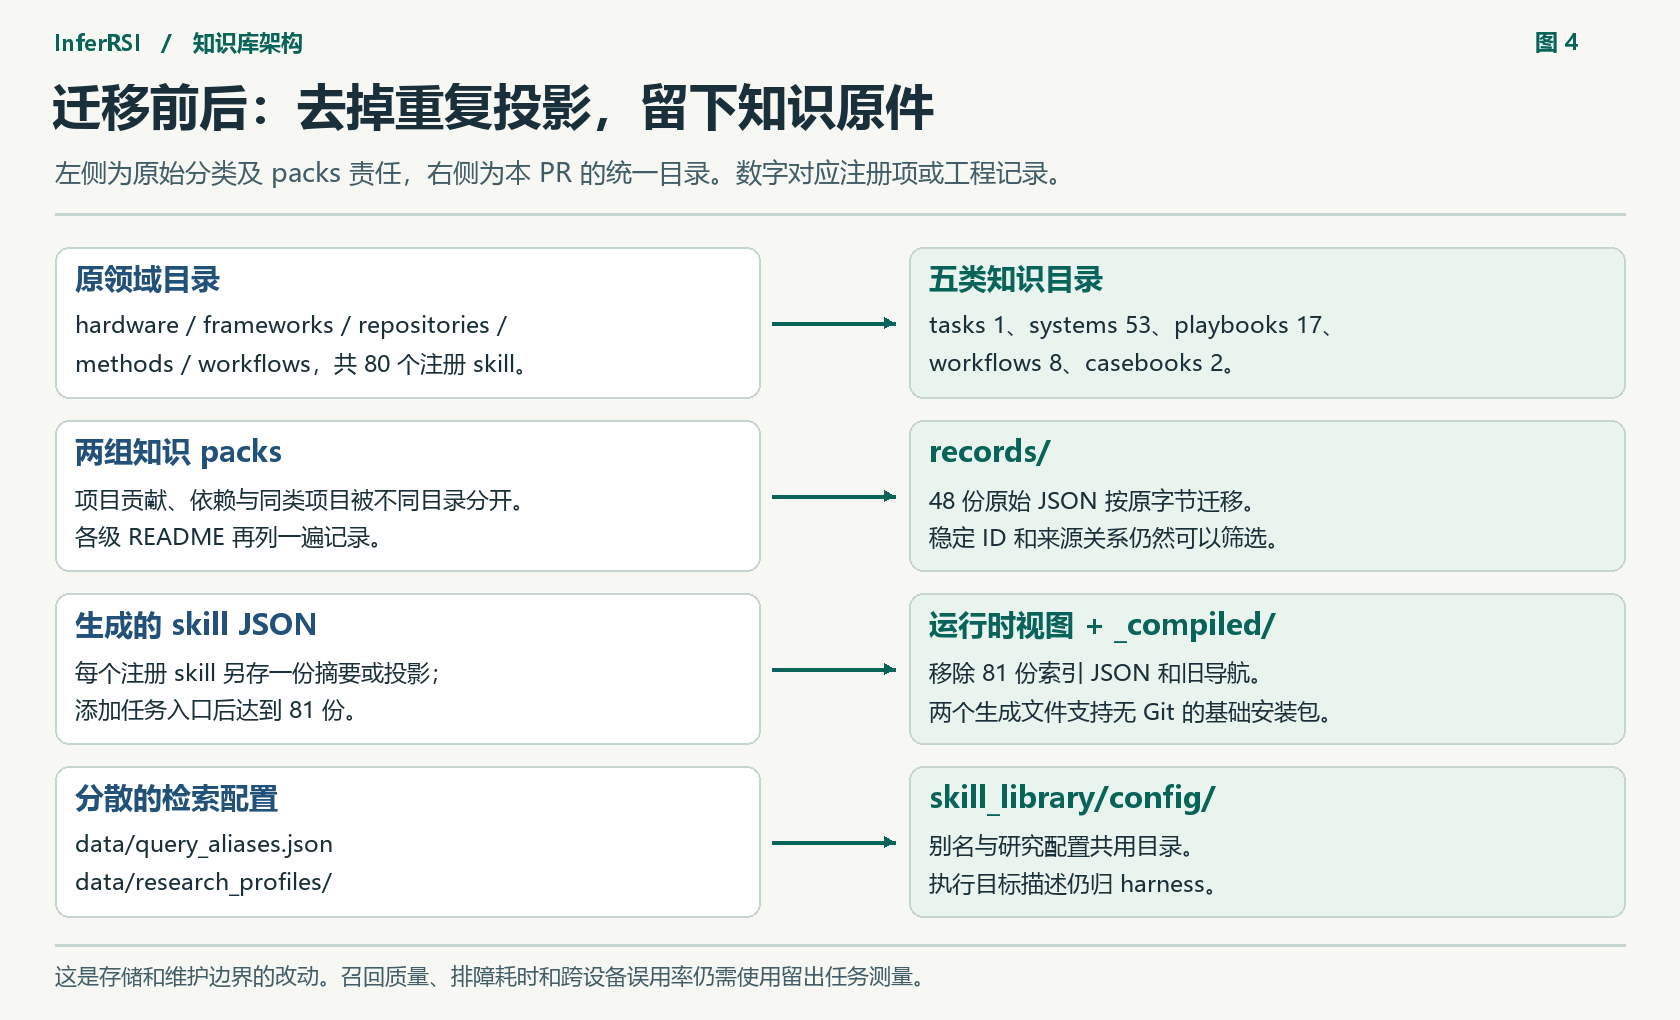
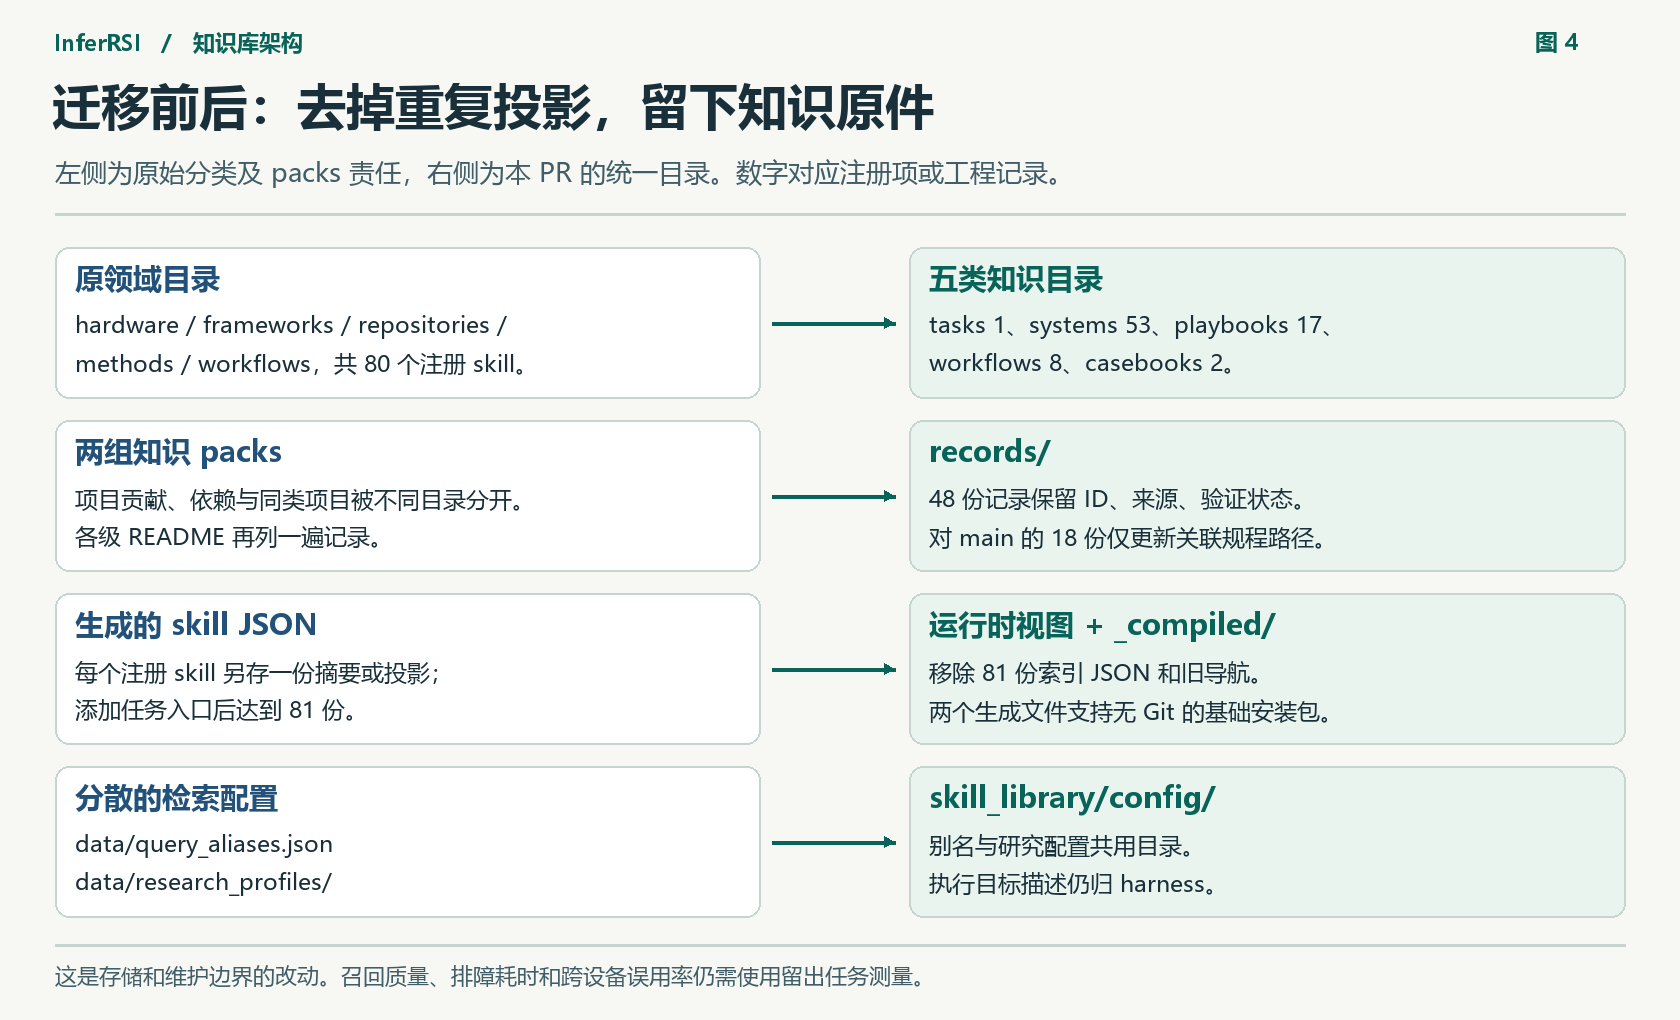
Refresh combined source pins, verify protected projections and document shared ranking
Agent-assisted-by: Codex / gpt-6.2-astra [effort=xhigh] (author)
Agent-reviewed-by: Claude Code / claude-fable-5-2 [effort=xhigh] (design review)

Changed region(s): [[0.5571, 0.4559, 0.7738, 0.5471]]

diff --git a/tests/test_source_snapshot.py b/tests/test_source_snapshot.py
@@ -1,14 +1,15 @@
 import copy
 import hashlib
+import inspect
 import json
 import subprocess
+from fnmatch import fnmatchcase
 from pathlib import Path
 
 import pytest
 
 from inferrsi.knowledge import _source_snapshot as snapshot
-from inferrsi.knowledge.catalog import INPUTS, skill_views
-from inferrsi.knowledge.catalog import search_knowledge
+from inferrsi.knowledge.catalog import INPUTS, recommendations, search_knowledge, skill_views
 from tools import build_skill_index as index_builder
 from tools.build_skill_index import DESTINATION
 
@@ -19,6 +20,13 @@ REVISION = "a" * 40
 # root and the pinned prefix are the same. After the K02 re-pin the repository
 # agrees on src/inferrsi/knowledge/data/skill_library as well.
 LIBRARY = index_builder.PINNED_LIBRARY
+
+
+def test_public_projection_implementation_is_a_protected_knowledge_path():
+    policy = json.loads((PROJECT / ".github/knowledge-model-policy.json").read_bytes())
+    for builder in (skill_views, recommendations):
+        path = Path(inspect.getfile(builder)).resolve().relative_to(PROJECT).as_posix()
+        assert any(fnmatchcase(path, pattern) for pattern in policy["protected_paths"]), path
 
 
 def test_compiled_inputs_expand_to_public_records():

diff --git a/tests/test_knowledge_find.py b/tests/test_knowledge_find.py
@@ -115,7 +115,9 @@ def test_catalog_ranks_find_documents_over_the_filtered_package_scope(corpus, qu
     by_find_ref = {record.get("checkout_ref", f"package:{record['id']}"): record
                    for record in inventory}
     eligible = [document for document in corpus.documents if document.qualified in by_find_ref]
-    assert len(eligible) == len(inventory)
+    # Navigation is available in an unranked listing and by exact ID.
+    unranked = set(by_find_ref) - {doc.qualified for doc in eligible}
+    assert unranked == ({"checkout:inference-task-router"} & set(by_find_ref))
     _, _, scored = rank(query, Corpus(eligible))
     assert scored
 

diff --git a/tools/check_skill_layout_migration.py b/tools/check_skill_layout_migration.py
@@ -61,7 +61,8 @@ def verify_snapshot(checkout, rows, side):
 
 def main():
     parser = argparse.ArgumentParser(description=__doc__)
-    parser.add_argument("--before", type=Path, required=True, help="pre-layout checkout corresponding to the migration manifest")
+    parser.add_argument("--before", type=Path, required=True,
+                        help="pre-layout checkout corresponding to the migration manifest")
     parser.add_argument("--after", type=Path, default=PROJECT, help="cutover source checkout")
     args = parser.parse_args()
     with (PROJECT / "docs/skill-layout-migration.csv").open(encoding="utf-8", newline="") as stream:

diff --git a/tests/test_campaign_task_selection.py b/tests/test_campaign_task_selection.py
@@ -195,4 +195,5 @@ def test_task_router_is_explicitly_readable_but_never_ranked_into_campaign(tmp_p
     assert state == "verified"
     assert [item["ref"] for item in exact["items"]] == [ref]
     assert [item["ref"] for item in exact["contexts"]] == [ref]
-    assert reader.read(ref, revision=exact["items"][0]["revision"]).metadata["id"] == ref.split(":")[1]
+    pinned = reader.read(ref, revision=exact["items"][0]["revision"])
+    assert pinned.metadata["id"] == ref.split(":")[1]

diff --git a/docs/knowledge-layout.md b/docs/knowledge-layout.md
@@ -44,13 +44,14 @@ flowchart LR
 
 ```mermaid
 flowchart TB
-    Q["Input"] -->|Known task| T["Open one route card → seed IDs + acceptance criteria"]
-    Q -->|Symptom or question| F["find → aliases + weighted lexical retrieval"]
-    Q -->|Stable ID| I["read / resource → open owner at revision"]
-    Q -->|Repo / backend / scenario / tier| C["knowledge search / show → schema-1 catalog"]
-    F --> A["80 skill owners + 48 findings + 7 cases<br/>task entry excluded before IDF"]
-    C --> B["48 authored records + 81 skill views built on request"]
-    T & A & I & B --> V["Check source revision, model, device, OS and workload"]
+    Q["Input"] -->|Known task| T["Open one route card → seed IDs and acceptance criteria"]
+    Q -->|Known ID| I["read / resource / exact capture → open owner at revision"]
+    Q -->|Symptoms or managed campaign cue| F["Find lexical ranker · collect / capture share the selector"]
+    Q -->|Filtered catalog| C["knowledge search → scope by repo, backend, scenario, tier"]
+    C -->|With query| F
+    C -->|No query| B["List by stable ID · 48 records + 81 views, including the router"]
+    F --> A["Rank eligible owners before applying limits<br/>default corpus: 80 skills + 48 records + 7 cases; router excluded before IDF"]
+    T & I & A & B --> V["Check source revision, model, device, OS and workload"]
     V --> X["Applicable → cite source / case and verification status"]
     V --> G["Partial match or gap → record unknown + smallest discriminating test"]
 ```
@@ -74,7 +75,7 @@ flowchart LR
         P["config/ · aliases + profiles"]
     end
     A -->|move 80 owners and add task entry| N
-    B -->|same bytes and IDs| R
+    B -->|retain IDs; migrate linked paths| R
     C -->|remove mirrored record files| V
     D --> P
 ```
@@ -97,7 +98,7 @@ src/inferrsi/knowledge/data/
     └── _compiled/                         inputs.json, _provenance.json
 ```
 
-The README documents the library. A procedure, including its resources, belongs in one registered directory. An engineering record carries its own sources, applicability and verification status. Its filename must match its stable ID. The registry locates each skill. Builds compile YAML headers and pinned Git fingerprints required by the base wheel. The catalog reads canonical sidecars and emits the public schema-1 record on demand. Publishing the same skill under multiple engine or accelerator trees would require synchronized edits. Represent these dimensions on the task card and in owner metadata. For a new environment with no applicable local evidence, retain the unknown and the first check that could resolve it. [Record authoring guide](../src/inferrsi/knowledge/data/skill_library/records/README.md)
+The README documents the library. A procedure, including its resources, belongs in one registered directory. An engineering record carries its own sources, applicability and verification status. Its filename must match its stable ID. The registry locates each skill. The existing protected `knowledge/catalog.py` owns the public view fields, including source links, recommendations and verification status. Builds compile YAML headers and pinned Git fingerprints required by the base wheel. The catalog reads canonical sidecars and emits the public schema-1 record on demand. Publishing the same skill under multiple engine or accelerator trees would require synchronized edits. Represent these dimensions on the task card and in owner metadata. For a new environment with no applicable local evidence, retain the unknown and the first check that could resolve it. [Record authoring guide](../src/inferrsi/knowledge/data/skill_library/records/README.md)
 
 ## Seven deliverables
 
@@ -122,7 +123,7 @@ inferrsi knowledge search --tier peer --repo-type qwen3_tts_engine --backend asc
 inferrsi knowledge show flashinfer.cuda.llm.paged_decode_dispatch
 ```
 
-Known task cards seed 20 distinct skill IDs across seven routes. Known IDs can skip routing. Free-text discovery ranks the owner once and returns a path, evidence state and explanation. Typed catalog search filters first and returns the public record. The caller checks applicability before applying a result. A finding or failed attempt can be proposed as a record with a source, a scoped conclusion and a retry condition. The program does not autonomously promote session notes.
+Known task cards seed 20 distinct skill IDs across seven routes. Known IDs can skip routing. Free-text discovery ranks the owner once and returns a path, evidence state and explanation. A catalog query applies scope filters and reuses Find to rank the eligible owners; the no-query listing returns complete records in ID order. Ranked Collect and campaign capture use the same selector. Explicit IDs can still capture a task card’s owner. The caller checks applicability before applying a result. A finding or failed attempt can be proposed as a record with a source, a scoped conclusion and a retry condition. The program does not autonomously promote session notes.
 
 ## Design choices and benefits
 
@@ -130,8 +131,10 @@ Agent V describes Git-backed shared memory with human guidance, hard-to-rediscov
 
 MindIE Agent separates agent capabilities, knowledge and execution plugins. KDA specializes in kernel development. Cannbot Skills packages Ascend procedures for reuse. InferRSI needs cross-engine, cross-model and cross-platform retrieval as well as evidence qualification. It combines a task front door, technical owners, stable IDs and scoped evidence. A claim that it retrieves better than any of these projects requires a common task benchmark. [MindIE Agent](https://github.com/mindie-agent/mindie-agent) · [KDA](https://github.com/NVlabs/kda) · [Cannbot Skills](https://github.com/hicann/cannbot-skills)
 
-Measure with three arms on the same corpus and tool budget: prior layout and search, unified layout with direct search, and unified layout with optional routing. Use held-out tasks across the seven types, blinded reviewers and paired cases with an applicable answer and a similar-looking incompatible target. Record top-five applicable-source recall, wrong transfers, justified abstentions, time to first cited evidence, files opened and maintenance time per accepted change. Approve broader rollout only when the team meets its predeclared quality and cost targets.
+Measure with three arms on the same corpus and tool budget: prior layout and search, unified layout with direct search, and unified layout with optional routing. Use held-out tasks across the seven types, blinded reviewers and paired cases with an applicable answer and a similar-looking incompatible target. Use four held-out tasks for each of the seven task types. Run each arm in an isolated session and balance the order. The primary metric is the fraction of answerable tasks with an applicable, cited owner in the top three. Report top-five applicable-source recall separately. For missing evidence, score unjustified transfer, correct abstention and mistaken abstention separately. Record time to first useful evidence, files opened and maintenance effort. Compare A→B and B→C separately using the gates in the acceptance issue. Approve broader rollout only when the team meets its predeclared quality and cost targets.
 
-The authoring benefit is directly inspectable: one finding file or one skill owner is edited; no per-pack navigation list or projected record is maintained. Two compiled files are reproducible build products. Their shared merge point is a cost: resolve source edits, then regenerate. The build-time Git pin identifies source provenance. Installed material selection checks the resource hashes. Whole-library dependency revisions, checkout revisions, and hashes of individual findings have different scopes. Historical checkout pins must be replayed on the corresponding snapshot. The full layout migration rejects 79 old checkout skill pins, retains seven case pins and preserves the pre-existing unavailable `husky` read. Direct callers that open old pack filenames must move to the record ID or new path.
+The authoring benefit is directly inspectable: one finding file or one skill owner is edited; no per-pack navigation list or projected record is maintained. Two compiled files are reproducible build products. Their shared merge point is a cost: resolve source edits, then regenerate. The build-time Git pin identifies source provenance. Installed material selection checks the resource hashes. Whole-library dependency revisions, checkout revisions, and hashes of individual findings have different scopes. Historical checkout pins must be replayed on the corresponding snapshot. Compared with main after #507, the full layout migration rejects 79 old checkout skill pins, retains the seven case pins from that baseline and preserves the pre-existing unavailable `husky` read. Direct callers that open old pack filenames must move to the record ID or new path.
 
-The 48 original record files retain their bytes. An installed package bundle for an authored record that declares linked skill documents also includes library dependencies. Editing a referenced library file can change that bundle revision. Archive a known-good snapshot for pinned replay.
+A provenance-only refresh preserves an authored record’s bundle pin when its linked skill resources stay identical. Each registered casebook is a skill package; the seven rankable cases are individual evidence items.
+
+The consolidation step moved all 48 files byte-for-byte from the preceding PR layout. Compared directly with main before the layout migration, 30 are byte-identical and 18 update only the path in `skill_documents`. All 48 retain their IDs, tiers, source pins and verification state. An installed package bundle for an authored record that declares linked skill documents also includes library dependencies. Editing a referenced library file can change that bundle revision. Archive a known-good snapshot for pinned replay.

diff --git a/docs/skill-coverage.md b/docs/skill-coverage.md
@@ -4,7 +4,7 @@ Generated from the registry, the skill sidecars and the two maintained
 matrices. **Do not edit by hand**; regenerate after any registry, skill,
 matrix or frozen-plan change.
 
-- Input digest: `sha256:9543ee36cc702d8885cd61cdf46f58afc171447b5cd377df6d1d4eb1aca67fff`
+- Input digest: `sha256:5f6f51d0ca254d79218209aaaf3f7b68b3e6ceb4dc754dc6ba995e838bdea9de`
 - Regenerate: `python tools/build_skill_coverage.py`
 - Verify without writing: `python tools/build_skill_coverage.py --check`
 
